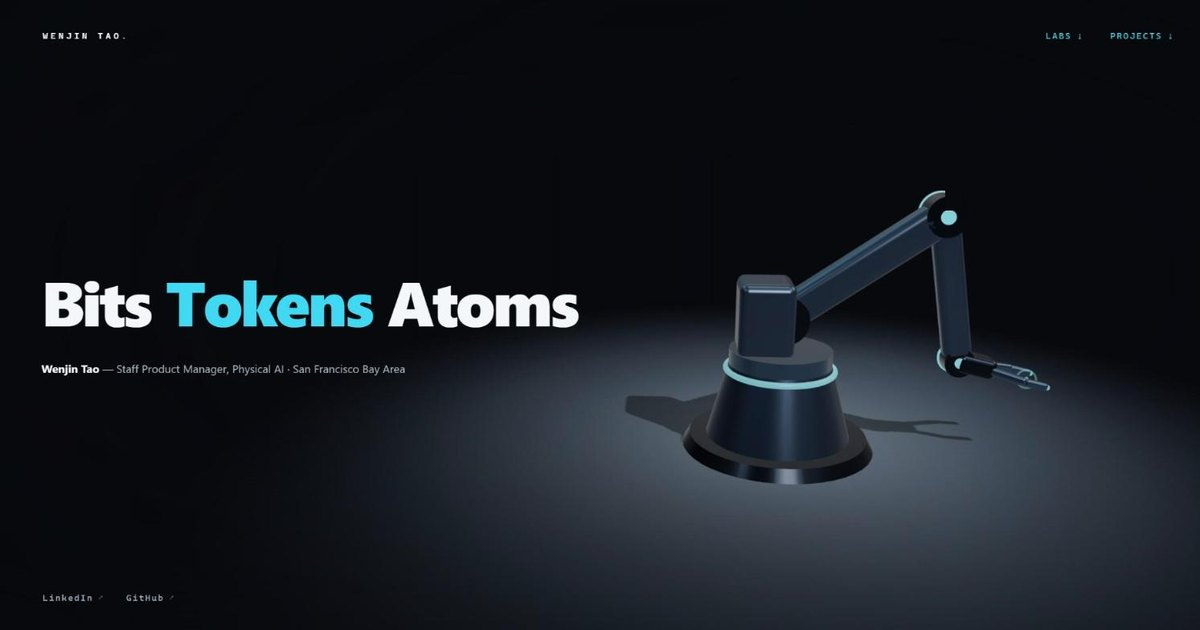
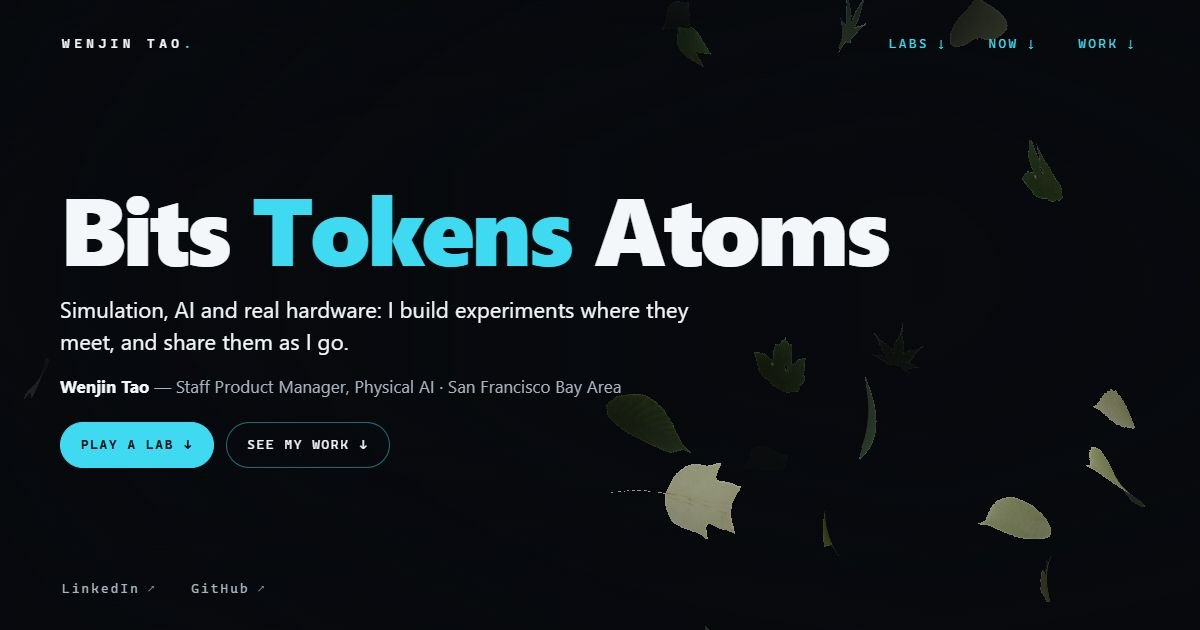
Hero: falling scanned leaves (default); the robot arm stays at ?hero=arm
Eight LeafSnap scans from the SimReady Leaves lab data drift down behind the headline (procedural
flutter, pointer = breeze), mostly on the right; pauses off screen; still frame with reduce motion.
New 1200x630 share image from this hero (the arm version kept as og-home-arm.jpg).

diff --git a/src/scripts/leaves.js b/src/scripts/leaves.js
@@ -1,0 +1,142 @@
+// Homepage hero: real scanned leaves (the SimReady Leaves lab's data, LeafSnap30 scans, CC BY 4.0) falling behind
+// the headline. Procedural flutter (swing + tilt with the swing, slow spin, speed dips at the turns), recycled at
+// the bottom. The pointer is a light breeze: leaves near it drift with its movement. Loaded after first paint;
+// runs only while the hero is on screen; one still frame with "reduce motion".
+import * as THREE from "three";
+import { RoomEnvironment } from "three/addons/environments/RoomEnvironment.js";
+
+const KEYS = ["acer_palmatum__wb1127-01-1", "acer_rubrum__pi2388-01-1", "liriodendron_tulipifera__pi0068-01-1",
+  "quercus_montana__pi0036-01-1", "cercis_canadensis__pi0001-01-1", "ptelea_trifoliata__pi0003-01-1",
+  "ulmus_americana__pi0020-01-1", "styrax_japonica__ny1001-01-1"];
+const DATA = "/labs/simready-leaves/viewer_data/";
+
+const canvas = document.getElementById("field");
+const reduceMotion = matchMedia("(prefers-reduced-motion: reduce)").matches;
+const narrow = () => innerWidth < 760;
+
+const dec = (b64, T) => { const s = atob(b64), u = new Uint8Array(s.length);
+  for (let i = 0; i < s.length; i++) u[i] = s.charCodeAt(i); return new T(u.buffer); };
+
+async function main() {
+  const renderer = new THREE.WebGLRenderer({ canvas, antialias: true, alpha: true });
+  renderer.setClearColor(0x000000, 0);
+  renderer.setPixelRatio(Math.min(devicePixelRatio, 2));
+  renderer.outputColorSpace = THREE.SRGBColorSpace;
+  renderer.toneMapping = THREE.ACESFilmicToneMapping;
+  renderer.toneMappingExposure = 1.25;
+  const scene = new THREE.Scene();
+  scene.fog = new THREE.Fog(0x07090d, 6, 11.5);            // far leaves sink into the dark
+  const pmrem = new THREE.PMREMGenerator(renderer);
+  scene.environment = pmrem.fromScene(new RoomEnvironment(), 0.04).texture;
+  scene.environmentIntensity = 0.35;
+  const camera = new THREE.PerspectiveCamera(35, 1, 0.1, 30);
+  camera.position.set(0, 0, 6);
+  const key = new THREE.DirectionalLight(0xffe7c8, 3.0);     // warm, from the upper right: the spotlight of the design
+  key.position.set(3, 4, 4);
+  const rim = new THREE.DirectionalLight(0x9fdcf0, 0.8);     // a cool rim in the accent colour
+  rim.position.set(-4, 1, -3);
+  scene.add(key, rim, new THREE.HemisphereLight(0xcfd8e0, 0x1a1410, 0.35));
+
+  // the leaves: one geometry + two scan textures each (top and underside), shared by every falling copy
+  const tl = new THREE.TextureLoader();
+  const tex = (uri) => { const t = tl.load(uri); t.colorSpace = THREE.SRGBColorSpace;
+    t.anisotropy = renderer.capabilities.getMaxAnisotropy(); return t; };
+  const kinds = (await Promise.all(KEYS.map((k) => fetch(DATA + k + ".json").then((r) => (r.ok ? r.json() : null)).catch(() => null))))
+    .filter(Boolean).map((D) => {
+      const g = new THREE.BufferGeometry();
+      g.setAttribute("position", new THREE.BufferAttribute(dec(D.p, Float32Array), 3));
+      g.setAttribute("uv", new THREE.BufferAttribute(dec(D.uv, Float32Array), 2));
+      g.setIndex(new THREE.BufferAttribute(dec(D.i, Uint16Array), 1));
+      g.computeVertexNormals(); g.computeBoundingBox(); g.center();
+      const s = new THREE.Vector3(); g.boundingBox.getSize(s);
+      const mat = (map, side) => new THREE.MeshStandardMaterial({ map, side, alphaTest: 0.5, roughness: 0.72 });
+      return { g, size: Math.max(s.x, s.z), under: mat(tex(D.back), THREE.FrontSide), top: mat(tex(D.front), THREE.BackSide) };
+    });
+  if (!kinds.length) return;
+
+  const rnd = (a, b) => a + Math.random() * (b - a);
+  let W = 1, H = 1;                                          // half width / height of the view at z = 0
+  const leaves = [];
+  function spawn(L, anywhere) {
+    // desktop: mostly the right side (the headline is on the left); phones: across, fewer
+    const right = !narrow() && Math.random() < 0.86;
+    L.z = right || narrow() ? rnd(-3.6, 1.6) : rnd(-4.2, -2.6);   // the few behind the headline stay far back, dim
+    const k = (6 - L.z) / 6;                                 // view grows with depth
+    L.x0 = right ? rnd(-0.05, 1.05) * W * k : rnd(-1.05, 1.05) * W * k;
+    L.y = anywhere ? rnd(-1.1, 1.1) * H * k : H * k * rnd(1.08, 1.4);
+    L.w = rnd(1.1, 1.9); L.ph = rnd(0, 6.3); L.A = rnd(0.25, 0.55); L.vy = rnd(0.32, 0.55);
+    L.spin = rnd(-0.6, 0.6); L.yaw = rnd(0, 6.3); L.base = rnd(-1.35, -0.95); L.vx = 0; L.t = 0;
+  }
+  const COUNT = () => (narrow() ? 11 : 26);
+  function populate() {
+    while (leaves.length < COUNT()) {
+      const kd = kinds[leaves.length % kinds.length];
+      const obj = new THREE.Group();
+      obj.add(new THREE.Mesh(kd.g, kd.under), new THREE.Mesh(kd.g, kd.top));
+      obj.scale.setScalar(rnd(0.5, 0.72) / kd.size);            // ~0.5-0.7 m across: magnified, like a still life
+      const L = { obj }; spawn(L, true); leaves.push(L); scene.add(obj);
+    }
+    while (leaves.length > COUNT()) scene.remove(leaves.pop().obj);
+  }
+  function layout() {
+    const w = canvas.clientWidth || innerWidth, h = canvas.clientHeight || innerHeight;
+    renderer.setSize(w, h, false); camera.aspect = w / h; camera.updateProjectionMatrix();
+    H = Math.tan(THREE.MathUtils.degToRad(camera.fov / 2)) * camera.position.z; W = H * camera.aspect;
+    populate();
+  }
+  layout();
+  addEventListener("resize", layout);
+
+  // the pointer as a breeze
+  const ptr = { x: 0, y: 0, vx: 0, vy: 0, t: 0, on: false };
+  addEventListener("pointermove", (e) => {
+    const now = performance.now(), dt = Math.max(16, now - ptr.t) / 1000;
+    if (ptr.on) { ptr.vx = (e.clientX - ptr.x) / dt; ptr.vy = (e.clientY - ptr.y) / dt; }
+    ptr.x = e.clientX; ptr.y = e.clientY; ptr.t = now; ptr.on = true;
+  }, { passive: true });
+  const v = new THREE.Vector3();
+
+  function step(dt) {
+    const gust = performance.now() - ptr.t < 120;
+    for (const L of leaves) {
+      L.t += dt;
+      const s = Math.sin(L.w * L.t + L.ph), c = Math.cos(L.w * L.t + L.ph);
+      L.y -= L.vy * (0.45 + 0.55 * Math.abs(c)) * dt;        // slower at the ends of each swing
+      if (gust) {                                            // pushed along by a passing pointer
+        v.set(L.x0 + L.A * s, L.y, L.z).project(camera);
+        const sx = (v.x + 1) / 2 * innerWidth, sy = (1 - v.y) / 2 * innerHeight;
+        if (Math.hypot(sx - ptr.x, sy - ptr.y) < 150) L.vx += ptr.vx * 0.00035 * Math.min(1, dt * 30);
+      }
+      L.vx *= Math.exp(-dt * 1.4); L.x0 += L.vx * dt;
+      L.yaw += L.spin * dt;
+      L.obj.position.set(L.x0 + L.A * s, L.y, L.z);
+      L.obj.rotation.set(L.base + 0.28 * Math.sin(0.5 * L.w * L.t + L.ph), L.yaw, 0.65 * c, "YXZ");
+      const k = (6 - L.z) / 6;
+      if (L.y < -H * k * 1.25 || Math.abs(L.x0) > W * k * 1.6) spawn(L, false);
+    }
+  }
+
+  if (reduceMotion) { renderer.render(scene, camera); return; }
+  let raf = null, last = performance.now(), heroOn = true;
+  const frame = (now) => {
+    step(Math.min(0.05, (now - last) / 1000)); last = now;
+    renderer.render(scene, camera);
+    raf = requestAnimationFrame(frame);
+  };
+  const sync = () => {
+    const run = !document.hidden && heroOn;
+    if (!run && raf) { cancelAnimationFrame(raf); raf = null; }
+    else if (run && !raf) { last = performance.now(); raf = requestAnimationFrame(frame); }
+  };
+  document.addEventListener("visibilitychange", sync);
+  const hero = document.querySelector(".frame");
+  if (hero && "IntersectionObserver" in window) {
+    new IntersectionObserver((es) => { heroOn = es[0].isIntersecting; sync(); }, { threshold: 0 }).observe(hero);
+  }
+  const fade = () => { canvas.style.opacity = String(Math.max(0, 1 - scrollY / (innerHeight * 0.9))); };
+  addEventListener("scroll", fade, { passive: true });
+  fade();
+  sync();
+}
+
+if (canvas) main().catch(() => { /* no WebGL or no leaf data: the hero is still the text */ });
